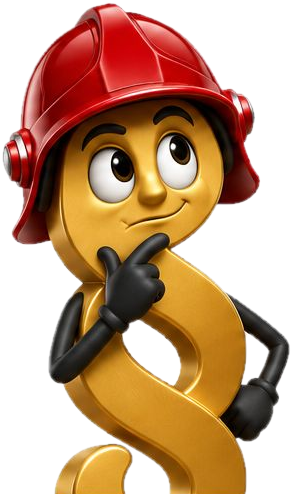
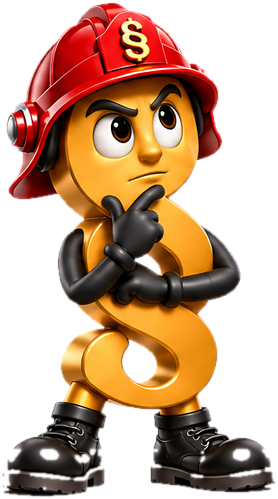
Test reel with real photos and the new full-body Druh Paragraf
- Steerable camera on photos (kadr) and gold on-photo markers tied to words (znacznik)
- Photos: fire station (cover + greeting), court (list flies in and bounces back), folder, office calendar
- New mascot sheet v2 (§ on helmet, boots); cut-out script also removes floor shadow and small enclosed gaps

Claude-Session: https://claude.ai/code/session_01A3SugAmiGzk6NGRwCShTKH

diff --git a/video/src/RolkaOSP.tsx b/video/src/RolkaOSP.tsx
@@ -27,6 +27,9 @@ export type ScenaOSP = {
   lektor?: string;
   akcent?: string[];
   obraz?: string;
+  wymiary?: [number, number]; // szerokość i wysokość zdjęcia w pikselach
+  kadr?: { od: [number, number]; do: [number, number]; zoomOd?: number; zoomDo?: number };
+  znacznik?: { x: number; y: number; slowo: string; tekst: string };
   ilustracja?: string;
   prompt?: string;
   postac?: UstawieniaPostaci; // maskotka w tej scenie
@@ -110,23 +113,70 @@ const porcje = (slowa: Slowo[]): Slowo[][] => {
   return wynik;
 };
 
-// Tło sceny: zdjęcie z powolnym najazdem albo nic (jednolity grafit)
-const Tlo: React.FC<{ scena: ScenaOSP; numer: number; odcinek: string }> = ({ scena, numer, odcinek }) => {
+// Tło sceny: zdjęcie z ruchem kamery. Bez pola "kadr" – powolny najazd na środek.
+// "kadr": punkt zdjęcia (0–1), na który patrzy kamera na początku i na końcu sceny, oraz przybliżenie.
+// "znacznik": złote kółko z podpisem przypięte do miejsca na zdjęciu; pojawia się na wskazanym słowie.
+const Tlo: React.FC<{ scena: ScenaOSP; numer: number; odcinek: string; dlugosc: number }> = ({ scena, numer, odcinek, dlugosc }) => {
   const frame = useCurrentFrame();
   const { fps } = useVideoConfig();
-  const dlugosc = (scena.koniec - scena.start + 1) * fps;
-  const zoom = interpolate(frame, [0, dlugosc], [U.zoomStart, U.zoomKoniec], zakres);
-  const kierunek = numer % 2 === 0 ? 1 : -1;
-  const przesuniecie = interpolate(frame, [0, dlugosc], [0, U.przesuniecie * kierunek], zakres);
   const wejscie = interpolate(frame, [0, PRZENIKANIE], [0, 1], zakres);
-  if (!scena.obraz) return null;
+  if (!scena.obraz || !scena.wymiary) return null;
+  const [W, H] = scena.wymiary;
+  const kadr = scena.kadr ?? { od: [0.5, 0.5], do: [0.5 + (numer % 2 === 0 ? 0.03 : -0.03), 0.5], zoomOd: U.zoomStart, zoomDo: U.zoomKoniec };
+  const t = interpolate(frame, [0, dlugosc], [0, 1], zakres);
+  const plynnie = t * t * (3 - 2 * t);
+  const fx = interpolate(plynnie, [0, 1], [kadr.od[0], kadr.do[0]]);
+  const fy = interpolate(plynnie, [0, 1], [kadr.od[1], kadr.do[1]]);
+  const skala = Math.max(1080 / W, 1920 / H) * interpolate(plynnie, [0, 1], [kadr.zoomOd ?? 1, kadr.zoomDo ?? 1.08]);
+  const szer = W * skala;
+  const wys = H * skala;
+  // Punkt kadru ustawiamy na środku bezpiecznej strefy, pilnując, by zdjęcie zawsze zakrywało ekran
+  const lewo = Math.min(0, Math.max(1080 - szer, SRODEK_X - fx * szer));
+  const gora = Math.min(0, Math.max(1920 - wys, 900 - fy * wys));
+
+  const z = scena.znacznik;
+  const czasZnacznika = z ? scena.slowa.find((s) => normalizuj(s.w).startsWith(normalizuj(z.slowo)))?.s : undefined;
+  const odZnacznika = czasZnacznika !== undefined ? frame - Math.round((czasZnacznika - scena.start) * fps) : -1;
+  const znak = odZnacznika >= 0 ? spring({ frame: odZnacznika, fps, config: { damping: 12 } }) : 0;
+  const puls = odZnacznika >= 0 ? (odZnacznika % 30) / 30 : 0;
+
   return (
-    <AbsoluteFill style={{ opacity: numer === 0 ? 1 : wejscie }}>
-      <Img
-        src={staticFile(`odcinki/${odcinek}/${scena.obraz}`)}
-        style={{ width: "100%", height: "100%", objectFit: "cover", transform: `scale(${zoom}) translateX(${przesuniecie}px)` }}
-      />
-      <AbsoluteFill style={{ background: `linear-gradient(180deg, ${MARKA.tlo}cc 0%, transparent 30%, transparent 55%, ${MARKA.tlo}ee 75%)` }} />
+    <AbsoluteFill style={{ opacity: numer === 0 ? 1 : wejscie, overflow: "hidden" }}>
+      <Img src={staticFile(`odcinki/${odcinek}/${scena.obraz}`)} style={{ position: "absolute", left: lewo, top: gora, width: szer, height: wys }} />
+      <AbsoluteFill style={{ background: `linear-gradient(180deg, ${MARKA.tlo}cc 0%, transparent 32%, transparent 62%, ${MARKA.tlo}f2 82%)` }} />
+      {z && znak > 0 && (
+        <>
+          <div
+            style={{
+              position: "absolute",
+              left: lewo + z.x * szer - 70,
+              top: gora + z.y * wys - 70,
+              width: 140,
+              height: 140,
+              borderRadius: "50%",
+              border: `6px solid ${MARKA.zloto}`,
+              transform: `scale(${znak})`,
+              boxShadow: `0 0 0 ${puls * 40}px rgba(218,167,60,${0.35 * (1 - puls)})`,
+            }}
+          />
+          <div
+            style={{
+              position: "absolute",
+              left: Math.min(U.strefaPrawo - 40 - 420, Math.max(40, lewo + z.x * szer - 210)),
+              top: gora + z.y * wys + 95,
+              width: 420,
+              display: "flex",
+              justifyContent: "center",
+              opacity: znak,
+              transform: `translateY(${(1 - znak) * 20}px)`,
+            }}
+          >
+            <div style={{ background: MARKA.zloto, color: MARKA.tlo, fontFamily: FONT, fontWeight: 800, fontSize: 40, borderRadius: 999, padding: "12px 30px", whiteSpace: "nowrap" }}>
+              {z.tekst}
+            </div>
+          </div>
+        </>
+      )}
     </AbsoluteFill>
   );
 };
@@ -337,7 +387,7 @@ const Hak: React.FC<{ linie: { tekst: string; zloty?: boolean }[] }> = ({ linie 
   const zanik = interpolate(frame, [koniecHaka - PRZENIKANIE * 2, koniecHaka], [1, 0], zakres);
   const najazd = interpolate(frame, [0, koniecHaka], [1, 1.06], zakres);
   return (
-    <AbsoluteFill style={{ backgroundColor: MARKA.tlo, opacity: zanik }}>
+    <AbsoluteFill style={{ backgroundColor: `${MARKA.tlo}b8`, opacity: zanik }}>
       <div
         style={{
           position: "absolute",
@@ -365,8 +415,6 @@ const Hak: React.FC<{ linie: { tekst: string; zloty?: boolean }[] }> = ({ linie 
             height: 560,
             transform: `scale(${najazd})`,
             transformOrigin: "50% 100%",
-            WebkitMaskImage: "linear-gradient(180deg, #000 80%, transparent 100%)",
-            maskImage: "linear-gradient(180deg, #000 80%, transparent 100%)",
           }}
         />
       </div>
@@ -401,7 +449,7 @@ const Plansza: React.FC<NonNullable<Odcinek["plansza"]>> = ({ haslo, pigulka, ko
       </div>
       <div style={{ ...kolumna, top: 790, fontWeight: 700, fontSize: 52, color: MARKA.bialy, opacity: w(22) }}>{kontakt}</div>
       <div style={{ ...kolumna, top: 920, height: 380, display: "flex", justifyContent: "center", opacity: w(28) }}>
-        <Img src={staticFile("postac/stoi.png")} style={{ height: 380 }} />
+        <Img src={staticFile("postac/cieszy-sie.png")} style={{ height: 380 }} />
       </div>
       <div style={{ ...kolumna, top: 1350, fontWeight: 700, fontSize: 26, color: MARKA.tekstPomocniczy, opacity: w(30) }}>{stopka}</div>
     </AbsoluteFill>
@@ -472,7 +520,7 @@ export const RolkaOSP: React.FC<RolkaProps> = ({ odcinek, dane, glosnosc = [], s
         const start = i === 0 ? 0 : od - PRZENIKANIE;
         return (
           <Sequence key={i} from={start} durationInFrames={doKlatki - start} layout="none">
-            <Tlo scena={scena} numer={i} odcinek={odcinek} />
+            <Tlo scena={scena} numer={i} odcinek={odcinek} dlugosc={doKlatki - start} />
           </Sequence>
         );
       })}

diff --git a/video/src/ScenyPion.tsx b/video/src/ScenyPion.tsx
@@ -443,6 +443,40 @@ const Adres: React.FC<IlustracjaProps> = ({ dlugosc }) => {
   );
 };
 
+// Wersje do sceny ze zdjęciem sądu: drzwi są na zdjęciu w punkcie ok. (450, 740) płótna
+const DRZWI = { x: 450, y: 740 };
+
+// 4b. Lista leci łukiem prosto w drzwi sądu na zdjęciu
+const ListaDoDrzwi: React.FC<IlustracjaProps> = ({ dlugosc }) => {
+  const frame = useCurrentFrame();
+  const t = interpolate(frame, [dlugosc * 0.2, dlugosc * 0.8], [0, 1], zakres);
+  const skala = 1 - t * 0.7;
+  const x = interpolate(t, [0, 1], [120, DRZWI.x]) - (240 * skala) / 2;
+  const y = interpolate(t, [0, 1], [880, DRZWI.y]) - Math.sin(t * Math.PI) * 260 - (300 * skala) / 2;
+  return (
+    <g opacity={t < 1 ? 1 : 0}>
+      <Dokument x={x} y={y} w={240} h={300} tytul="LISTA" linie={4} obrot={t * 25 - 15} skala={skala} />
+    </g>
+  );
+};
+
+// 5b. Lista odbija się od drzwi i zostaje przekreślona
+const ListaOdbita: React.FC<IlustracjaProps> = ({ dlugosc }) => {
+  const frame = useCurrentFrame();
+  const t = interpolate(frame, [0, dlugosc * 0.3], [0, 1], zakres);
+  const skala = interpolate(t, [0, 1], [0.3, 1]);
+  const x = interpolate(t, [0, 1], [DRZWI.x, 560]) - (300 * skala) / 2;
+  const y = interpolate(t, [0, 1], [DRZWI.y, 760]) - Math.sin(t * Math.PI) * 160 - (370 * skala) / 2;
+  const kreska = interpolate(frame, [dlugosc * 0.4, dlugosc * 0.6], [0, 1], zakres);
+  return (
+    <g transform={`translate(${x} ${y}) scale(${skala})`}>
+      <Dokument x={0} y={0} w={300} h={370} tytul="LISTA" linie={6} obrot={-10} />
+      <line x1="-20" y1="-20" x2={-20 + 340 * kreska} y2={-20 + 410 * kreska} stroke={CZERWONY} strokeWidth="24" strokeLinecap="round" />
+      <line x1="320" y1="-20" x2={320 - 340 * kreska} y2={-20 + 410 * kreska} stroke={CZERWONY} strokeWidth="24" strokeLinecap="round" />
+    </g>
+  );
+};
+
 export const ILUSTRACJE_PION: Record<string, React.FC<IlustracjaProps>> = {
   remiza: Remiza,
   sala: Sala,
@@ -455,4 +489,6 @@ export const ILUSTRACJE_PION: Record<string, React.FC<IlustracjaProps>> = {
   "kalendarz-7-dni": Kalendarz,
   "plansza-zarzad-protokol-wpis": Rownanie,
   adres: Adres,
+  "lista-do-drzwi": ListaDoDrzwi,
+  "lista-odbita": ListaOdbita,
 };

diff --git a/video/src/Maskotka.tsx b/video/src/Maskotka.tsx
@@ -3,20 +3,19 @@ import { Img, interpolate, spring, staticFile, useCurrentFrame, useVideoConfig }
 import type { Odcinek, ScenaOSP } from "./RolkaOSP";
 import { USTAWIENIA as U } from "./marka";
 
-// Maskotka: złoty paragraf w strażackim hełmie (pozy wycięte z arkusza, pliki w public/postac).
+// Maskotka Druh Paragraf: złoty paragraf w strażackim hełmie z § (cała sylwetka; pozy wycięte z arkusza, pliki w public/postac).
 // Ustawienia sceny w odcinek.json, pole "postac":
 //   { "plan": "pelny" | "obok" | "maly" | "brak", "poza": "tlumaczy",
 //     "gest": { "slowo": "siedem", "plan": "obok", "poza": "ostrzega", "ruch": "kiwa" } }
 // Gest z planem: postać wchodzi dokładnie na tym słowie (np. żeby wskazać coś na obrazie).
 
 export const POZY = {
-  stoi: { szer: 269, wys: 644 },
-  tlumaczy: { szer: 478, wys: 494 },
-  "cieszy-sie": { szer: 305, wys: 493 },
-  zaskoczony: { szer: 374, wys: 492 },
-  ostrzega: { szer: 324, wys: 494 },
-  mysli: { szer: 292, wys: 494 },
-  wskazuje: { szer: 301, wys: 496 },
+  tlumaczy: { szer: 418, wys: 495 },
+  "cieszy-sie": { szer: 280, wys: 496 },
+  zaskoczony: { szer: 350, wys: 495 },
+  ostrzega: { szer: 309, wys: 499 },
+  mysli: { szer: 278, wys: 499 },
+  wskazuje: { szer: 295, wys: 504 },
 } as const;
 
 export type Poza = keyof typeof POZY;
@@ -115,9 +114,6 @@ export const Maskotka: React.FC<{ dane: Odcinek; glosnosc: number[] }> = ({ dane
         transformOrigin: "50% 100%",
         transform: `rotate(${obrot}deg) scale(${(0.94 + 0.06 * pop) * (1 + oddech)}, ${(0.94 + 0.06 * pop) * (1 + oddech + usta * 0.025)})`,
         filter: "drop-shadow(0 18px 30px rgba(0,0,0,0.55))",
-        // Dolna krawędź wycięcia łagodnie znika w tle
-        WebkitMaskImage: "linear-gradient(180deg, #000 82%, transparent 100%)",
-        maskImage: "linear-gradient(180deg, #000 82%, transparent 100%)",
       }}
     >
       <Img src={staticFile(`postac/${poza}.png`)} style={{ width: "100%", height: "100%" }} />

diff --git a/video/src/marka.ts b/video/src/marka.ts
@@ -48,7 +48,7 @@ export const USTAWIENIA = {
   maskotkaPelnyOdGory: 470, // górna krawędź na pełnym planie (px)
   maskotkaMalyWysokosc: 430, // wysokość w rogu (px)
   maskotkaMalyOdLewej: 10, // odległość od lewej krawędzi w rogu (px)
-  maskotkaObokWysokosc: 560, // wysokość, gdy wchodzi obok obrazu, żeby coś wskazać (px)
+  maskotkaObokWysokosc: 600, // wysokość, gdy wchodzi obok obrazu, żeby coś wskazać (px)
   maskotkaObokOdGory: 820, // górna krawędź w tym planie (px)
   ilustracjaPrzyMaskotce: 0.22, // jasność ilustracji za maskotką na pełnym planie (0–1)
 

diff --git a/video/skrypty/wytnij-postac.py b/video/skrypty/wytnij-postac.py
@@ -15,7 +15,7 @@ ZNACZNIK = (255, 0, 255)
 
 def zamkniete_dziury(rgb: np.ndarray, tlo: np.ndarray) -> np.ndarray:
     """Białe plamy otoczone postacią (dziury w paragrafie, przerwy przy rękach) – też są tłem.
-    Białka oczu zostają: leżą w górnej części kadru (powyżej ok. 36% wysokości)."""
+    Białka oczu zostają: leżą w górnej części kadru (powyżej ok. 36% wysokości), niżej każda biała plama to tło."""
     h = rgb.shape[0]
     biale = (rgb.min(axis=-1) > 228) & ~tlo
     obraz = Image.fromarray((biale * 255).astype(np.uint8), "L")
@@ -29,7 +29,7 @@ def zamkniete_dziury(rgb: np.ndarray, tlo: np.ndarray) -> np.ndarray:
         plama = np.asarray(kopia) == 128
         odwiedzone |= plama
         ys = np.nonzero(plama)[0]
-        if (len(ys) >= 650 and ys.min() > 0.36 * h) or (ys.min() > 0.5 * h and len(ys) >= 60):
+        if ys.min() > 0.36 * h and len(ys) >= 40:
             wynik |= plama
     return wynik
 
@@ -49,6 +49,11 @@ def wytnij(obraz: Image.Image, ramka: tuple[int, int, int, int]) -> Image.Image:
                 ImageDraw.floodfill(zalane, (px, py), ZNACZNIK, thresh=42)
     tlo = np.all(np.asarray(zalane) == ZNACZNIK, axis=-1)
     tlo |= zamkniete_dziury(np.asarray(kadr).astype(int), tlo)
+    # Jasnoszary cień na podłodze pod butami (dolne 12% kadru) też jest tłem
+    rgb = np.asarray(kadr).astype(int)
+    szary = (rgb.max(axis=-1) - rgb.min(axis=-1) < 28) & (rgb.min(axis=-1) > 110)
+    szary[: int(h * 0.88)] = False
+    tlo |= szary
     maska = Image.fromarray(np.where(tlo, 0, 255).astype(np.uint8), "L")
     # Zjadamy 1 px białej obwódki z kompresji JPG i lekko wygładzamy krawędź
     maska = maska.filter(ImageFilter.MinFilter(3)).filter(ImageFilter.GaussianBlur(0.9))

diff --git a/.claude/skills/rolka/SKILL.md b/.claude/skills/rolka/SKILL.md
@@ -56,7 +56,7 @@ Zasady:
   (`video/src/Sceny.tsx`, mapa `ILUSTRACJE`). Gdy żadna nie pasuje do zdania, dopisz nową ilustrację w tym pliku
   (prosty SVG w barwach marki, animacja od początku sceny) i dodaj ją do mapy.
 - `maskotka`: `true` (na poziomie odcinka) pokazuje maskotkę Druha Paragrafa – złoty paragraf w hełmie (pozy w `video/public/postac`:
-  stoi, tlumaczy, cieszy-sie, zaskoczony, ostrzega, mysli, wskazuje). W każdej scenie pole `postac`:
+  tlumaczy, cieszy-sie, zaskoczony, ostrzega, mysli, wskazuje). W każdej scenie pole `postac`:
   `{"plan": "pelny" | "maly" | "brak", "poza": "...", "gest": {"slowo": "siedem", "poza": "ostrzega", "ruch": "kreci" | "kiwa" | "podskok"}}`.
   Pełny plan tylko w kluczowych scenach (powitanie, ostrzeżenie, zakończenie); poza dopasowana do treści zdania.
   `etykieta` – złota pigułka nad maskotką na pełnym planie (np. adres strony).

diff --git a/video/marka/POSTAC.md b/video/marka/POSTAC.md
@@ -1,8 +1,8 @@
 # Druh Paragraf – maskotka (złoty paragraf w strażackim hełmie)
 
 Główna postać rolek (od listopada 2026). Łączy prawo (§) i straż (czerwony hełm). 3D, czarne rękawiczki i buty.
-Arkusze wzorcowe: `video/marka/postac/arkusz-pozy.jpg` (6 min i gestów) i `arkusz-widoki.jpg` (widoki z każdej strony).
-Wycięte pozy (PNG z przezroczystym tłem): `video/public/postac/` – stoi, tlumaczy, cieszy-sie, zaskoczony, ostrzega, mysli, wskazuje.
+Aktualny wzór (v2, z § na hełmie i butami): `video/marka/postac/arkusz-pozy-v2.png`. Starsze: `arkusz-pozy.jpg`, `arkusz-widoki.jpg`.
+Wycięte pozy (PNG z przezroczystym tłem): `video/public/postac/` – tlumaczy, cieszy-sie, zaskoczony, ostrzega, mysli, wskazuje (cała sylwetka).
 Nowe pozy wycina skrypt `video/skrypty/wytnij-postac.py` (arkusz na białym tle).
 
 ## Do zrobienia, żeby postać „mówiła” i mrugała
